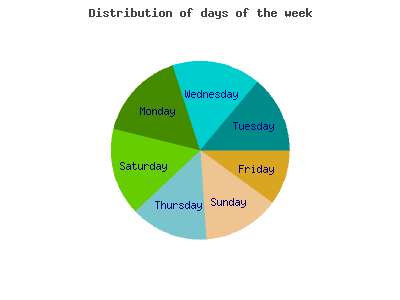
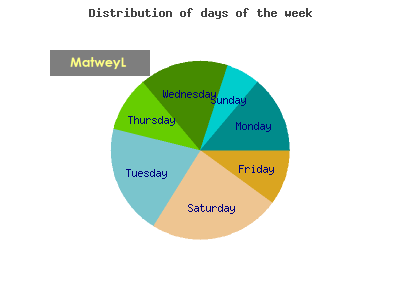
statistics are ready!

Changed region(s): [[0.12, 0.15, 0.63, 0.81], [0.57, 0.39, 0.69, 0.45]]

diff --git a/php/app/mvc/models/Statistics.php b/php/app/mvc/models/Statistics.php
@@ -145,7 +145,7 @@ class Statistics extends Model {
         $b1 = new Plot\BarPlot($databary);
         $b1->SetLegend($_GET['property']);
         $graph->Add($b1);
-        $graph->Stroke('mvc\models\images\plot_bar.png');
+        $graph->Stroke('mvc/models/images/plot_bar.png');
     }
 
     public function draw_plot_pie()
@@ -189,7 +189,7 @@ class Statistics extends Model {
         $graph->Add($lineplot);
 
         // Display the graph
-        $graph->Stroke('mvc\models\images\line_plot.png');
+        $graph->Stroke('mvc/models/images/line_plot.png');
 
     }
 
@@ -201,9 +201,9 @@ class Statistics extends Model {
 
         $images = array("mvc/models/images/plot_pie.png", "mvc/models/images/plot_bar.png", "mvc/models/images/line_plot.png");
 
-//        foreach ($images as $image) {
-//            $this->add_watermark($image);
-//        }
+        foreach ($images as $image) {
+            $this->add_watermark($image);
+        }
         $data = $this->get_raw_data();
         return array($images, $data);
     }
